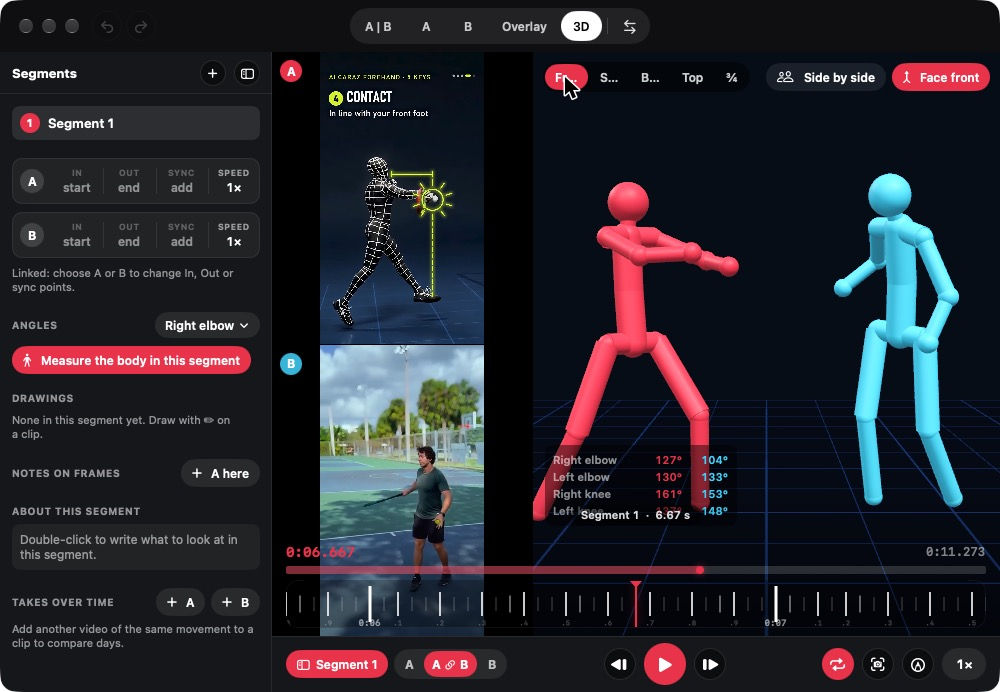
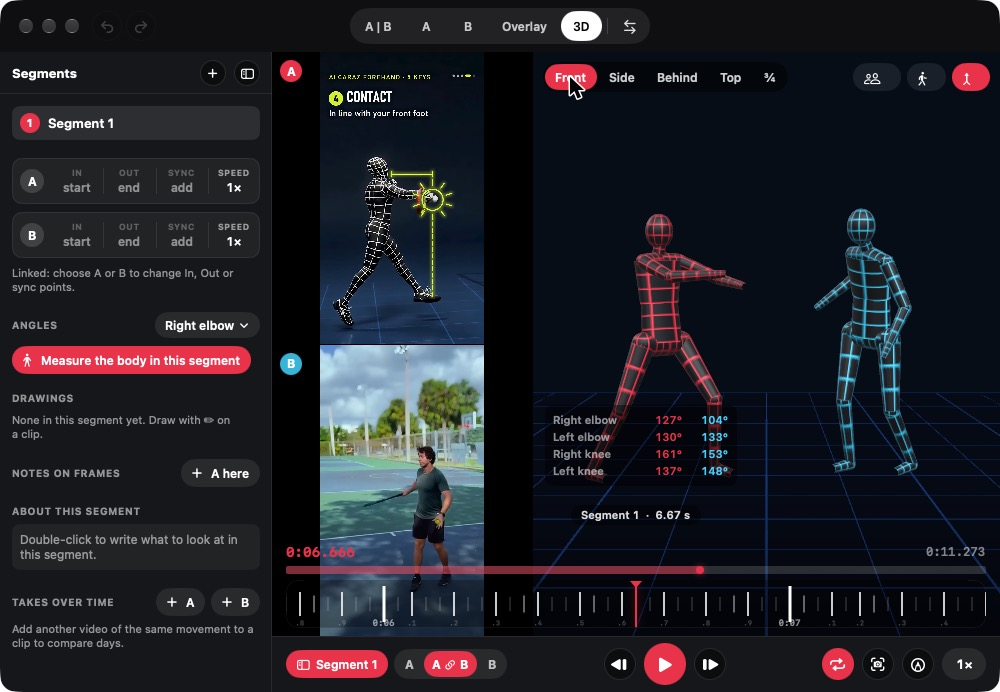
3D trial: a body shaped like a person with a grid, Travel, kept tracking; the engine from GitHub (apple-motion 0.1.0)

diff --git a/Packages/MimesisKit/Sources/MimesisKit/StagePane.swift b/Packages/MimesisKit/Sources/MimesisKit/StagePane.swift
@@ -13,6 +13,9 @@ struct StagePane: View {
     @State private var together = true
     /// Both turned to face the front as their stretch starts, so clips filmed from different sides compare.
     @State private var faceSame = true
+    /// Each body moves across the floor as it did in its video (roughly: from one camera); off, it
+    /// stays on the spot, which compares shapes best.
+    @State private var travels = false
 
     private static let colors: [Color] = [Theme.accent, Color(red: 0.3, green: 0.85, blue: 1)]
     private var loaded: [(index: Int, clip: Clip)] {
@@ -74,18 +77,40 @@ struct StagePane: View {
         return pose
     }
 
+    /// How far a clip's body has moved across the floor since its stretch began, turned as its pose is.
+    private func travel(_ clip: Clip) -> Vec3 {
+        let asked = clip.engine.currentTime
+        let shown = clip.engine.player?.currentTime().seconds ?? asked
+        var moved = clip.motion?.travel(at: shown.isFinite ? shown : asked) ?? .zero
+        if faceSame, let first = clip.motion?.motion?.poses.compactMap({ $0 }).first {
+            moved = moved.turned(by: -first.facing)
+        }
+        return moved
+    }
+
     private var figures: [StageFigure] {
         let items = loaded
         return items.map { item in
             let side = items.count > 1 && !together ? (item.index == 0 ? -0.7 : 0.7) : 0
             return StageFigure(id: item.index == 0 ? "A" : "B", pose: pose(item.clip), color: Self.colors[item.index],
-                               offset: side, opacity: items.count > 1 && together && item.index == 1 ? 0.6 : 1)
+                               offset: side, opacity: items.count > 1 && together && item.index == 1 ? 0.6 : 1,
+                               shift: travels ? travel(item.clip) : .zero)
         }
     }
 
     // MARK: Over the stage
 
+    /// The views on the left, the options on the right: with their names where there's room, as icons
+    /// where there isn't.
     private var controls: some View {
+        ViewThatFits(in: .horizontal) {
+            controlRow(named: true)
+            controlRow(named: false)
+        }
+        .foregroundStyle(.white)
+    }
+
+    private func controlRow(named: Bool) -> some View {
         HStack(spacing: 6) {
             HStack(spacing: 2) {
                 view("Front", .front)
@@ -96,20 +121,26 @@ struct StagePane: View {
             }
             .padding(2)
             .background(Color.black.opacity(0.45), in: Capsule())
+            .fixedSize()
             Spacer(minLength: 0)
             if loaded.count > 1 {
                 Button { withAnimation(.easeOut(duration: 0.2)) { together.toggle() } } label: {
-                    Label(together ? "Together" : "Side by side", systemImage: together ? "person.2.fill" : "person.2")
+                    Label(named ? (together ? "Together" : "Side by side") : "", systemImage: together ? "person.2.fill" : "person.2")
                 }
                 .buttonStyle(ChipStyle(active: together))
+                .fixedSize()
                 .help(together ? "One body stands in the other, to compare their shapes. Click to stand them side by side."
                       : "The bodies stand side by side. Click to stand one in the other.")
             }
-            Button { faceSame.toggle() } label: { Label("Face front", systemImage: "arrow.triangle.merge") }
+            Button { travels.toggle() } label: { Label(named ? "Travel" : "", systemImage: "figure.walk") }
+                .buttonStyle(ChipStyle(active: travels))
+                .fixedSize()
+                .help("Each body moves across the floor as it did in its video (an estimate, from one camera). Off: it stays on the spot, which compares shapes best.")
+            Button { faceSame.toggle() } label: { Label(named ? "Face front" : "", systemImage: "arrow.triangle.merge") }
                 .buttonStyle(ChipStyle(active: faceSame))
+                .fixedSize()
                 .help("Turn each body to face the front as its stretch starts, so clips filmed from different sides compare. Off: as the camera saw them.")
         }
-        .foregroundStyle(.white)
     }
 
     private func view(_ name: String, _ preset: StageCamera) -> some View {

diff --git a/Packages/MimesisKit/Package.swift b/Packages/MimesisKit/Package.swift
@@ -11,14 +11,14 @@ let package = Package(
     dependencies: [
         // Shared with Arete and Imago; the same version as project.yml pins.
         .package(url: "https://github.com/jiapoo/apple-media", exact: "1.16.0"),
-        // The 3D engine, on trial (branch 3d): the folder beside this repo, until it has versions.
-        .package(name: "AreteMotion", path: "../../../apple-motion"),
+        // The 3D engine, on trial (branch 3d).
+        .package(url: "https://github.com/jiapoo/apple-motion", exact: "0.1.0"),
     ],
     targets: [
         .target(name: "MimesisKit", dependencies: [
             .product(name: "AreteMedia", package: "apple-media"),
-            .product(name: "MotionCore", package: "AreteMotion"),
-            .product(name: "MotionKit", package: "AreteMotion"),
+            .product(name: "MotionCore", package: "apple-motion"),
+            .product(name: "MotionKit", package: "apple-motion"),
         ]),
         // The Phase 0 masking test from the command line (Mac):
         // swift run -c release mask-probe <video> [--start s] [--seconds s] [--out folder]

diff --git a/ROADMAP.md b/ROADMAP.md
@@ -256,6 +256,13 @@ The five steps below build it.
       with an HDR cutout (2026-11-12; the flash not yet checked)
 - ✅ The clip editor opens where the clip was, still playing; trimming zooms in when a handle is held still
       and slides gently at the edges (AreteMedia 1.16.0) (2026-11-18; seen on the iPhone simulator)
+- ✅ 3D, on trial (branch `3d`; engine: github.com/jiapoo/apple-motion 0.1.0): a 3D layout with each clip's
+      body found in 3D on a stage to look round, on the same timeline; together or side by side, facing the
+      front, travelling or on the spot; true elbow and knee angles; what's found is kept, so a video is
+      followed once (2026-11-18; seen on the Mac with a rendered clip and one real clip)
+- ⬜ 3D next: try real people filmed from behind and the side; 3D on iPhone and iPad (needs a real device);
+      an angle graph from the 3D angles; decide whether 3D joins `main`
+- ⬜ Not before 2027 (set aside 2026-11-18): racket, ball, drawing in 3D, a muscle map
 - ⬜ Arete and Imago on AreteMedia's drawing and skeleton (Arete: started on its branch
       `shared-drawing-wip`, never built; Imago: not started). Set aside 2026-11-12.
 
